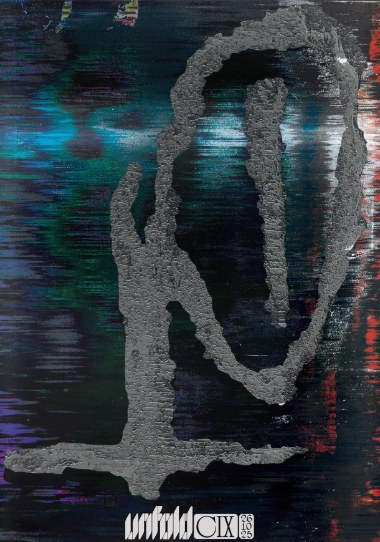
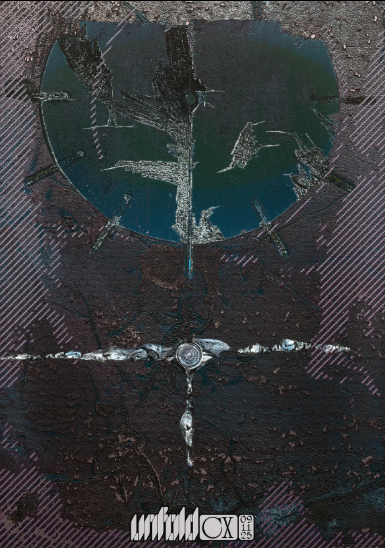
new event

diff --git a/js/events.js b/js/events.js
@@ -5684,6 +5684,34 @@ const events = [
   ],
   "age": "18+"
 },
+{
+  "id": 1945952351,
+  "name": "UNFOLD CX",
+  "venue": "Fold",
+  "address": "Gillian House, Stephenson St, London E16 4SA, UK",
+  "time": "14:00-00:00",
+  "date": "Nov 9",
+  "price": "£20",
+  "type": "party",
+  "tags": [
+    "Day Party",
+    "Community",
+    "Techno",
+    "Euphoric"
+
+  ],
+  "description": "No rest for the wicked; UNFOLD returns on Sunday 9th November for Edition CX. \n\nAs 2026 draws ever closer, a hazy yet familiar figure also begins to take shape on the horizon...\n\nDoors open for Edition CX at 14:00. As always, the line-up is unannounced and tickets are only available on the door.\n\nDress to sweat.\n\nNO RACISM, NO SEXISM, NO HOMOPHOBIA, NO TRANSPHOBIA, NO ABLEISM.",
+  "image": "images/unfold7.png",
+  "website_link": "",
+  "ticket_link": "https://ra.co/events/2284248",
+  "coordinates": null,
+  "sellingFast": false,
+  "scraped_from": "ra",
+  "scraped_date": "2025-10-24T14:13:10.100556",
+  "generes": [
+  ],
+  "age": "21+"
+},
 
 
 ];
